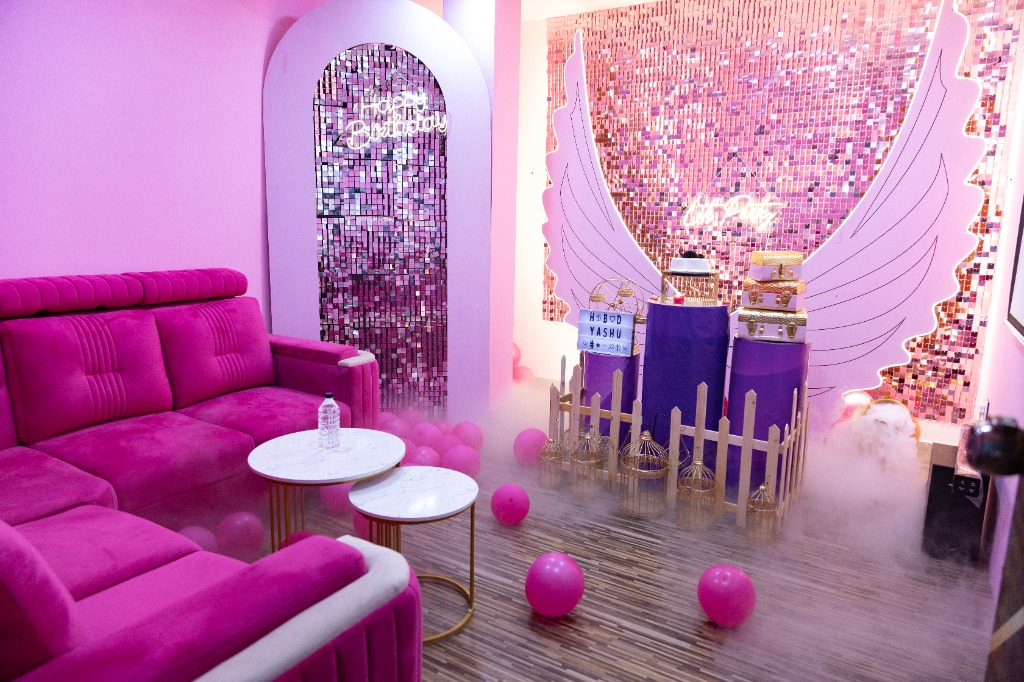
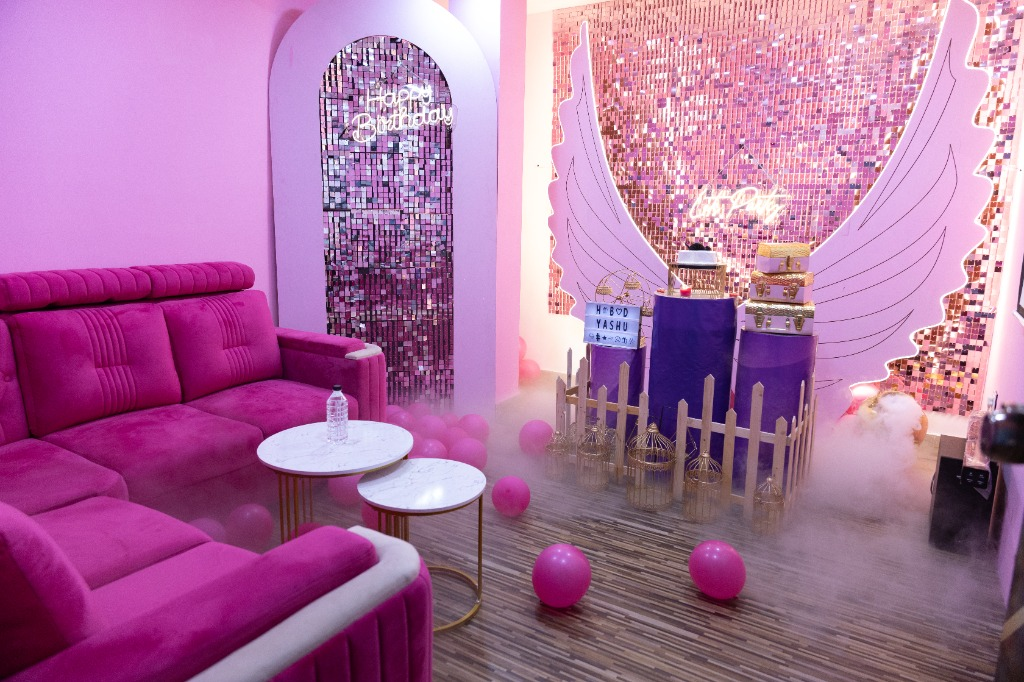
feat: update Pink Theme with authentic photos and set seating capacity to 6 members

diff --git a/src/components/GallerySection.tsx b/src/components/GallerySection.tsx
@@ -72,16 +72,42 @@ const GALLERY_ITEMS: GalleryItem[] = [
   },
   {
     id: 'theme-pink-wings',
-    title: 'Angel Wings & Neon Birthday Celebration',
+    title: 'Angel Wings & Neon Birthday Celebration Suite',
     category: 'birthday',
     categoryLabel: 'Birthday Celebration 🩷',
     theme: 'Pink Theme 🩷',
     themeColor: '#09090b',
-    image: '/gallery/theme-pink.jpg',
-    description: 'Authentic BeeVibe Pink Suite featuring giant glowing illuminated angel wings, pink shimmer sequin wall, "Happy Birthday" & "Let\'s Party" neon lights, hot pink plush recliners, and ground fog effect.',
-    tags: ['Giant Glowing Angel Wings', 'Happy Birthday Neon', 'Pink Shimmer Wall', 'Ground Fog Effect', 'Hot Pink Seating'],
-    highlights: ['2 Hours Private VIP Session', 'Private Cake Cutting Stage', 'Air Conditioned Suite'],
-    bookingLink: '/book?theme=pink'
+    image: '/gallery/theme-pink-wings.jpg',
+    description: 'Authentic BeeVibe Pink Suite featuring giant glowing illuminated angel wings, pink shimmer sequin wall, "Happy Birthday" & "Let\'s Party" neon signs, hot pink plush velvet seating for up to 6 guests, and ground dry-ice fog effect.',
+    tags: ['Giant Glowing Angel Wings', 'Happy Birthday Neon', 'Seats Up to 6', 'Ground Fog Effect', 'Hot Pink Seating'],
+    highlights: ['Seats Up to 6 Guests', 'Private Cake Cutting Stage', '180" 4K Laser Cinema'],
+    bookingLink: '/themes'
+  },
+  {
+    id: 'theme-pink-arch-stage',
+    title: 'Pink Sequin Arch & Happy Birthday Neon Stage',
+    category: 'decor',
+    categoryLabel: 'Birthday Stage Decor 🩷',
+    theme: 'Pink Birthday Arch',
+    themeColor: '#09090b',
+    image: '/gallery/theme-pink-arch.jpg',
+    description: 'Glamorous pink shimmer sequin archway with glowing "Happy Birthday" neon sign and hot pink plush lounge seating for up to 6 guests.',
+    tags: ['Pink Shimmer Sequin Arch', 'Happy Birthday Neon', 'Seats Up to 6', 'Hot Pink Velvet Couch'],
+    highlights: ['Seats Up to 6 Guests', 'Neon Photo Stage', 'Air Conditioned Privacy'],
+    bookingLink: '/themes'
+  },
+  {
+    id: 'theme-pink-cinema-screen',
+    title: '180" 4K Cinema Screen in Pink Celebration Suite',
+    category: 'cinema',
+    categoryLabel: 'Private Cinema Experience 🎬',
+    theme: 'Pink Cinema Suite 🍿',
+    themeColor: '#09090b',
+    image: '/gallery/theme-pink-screen.jpg',
+    description: 'Massive 180" 4K laser projection cinema screen with Dolby surround sound in the Angel Wings celebration suite. Seats up to 6 guests with total privacy.',
+    tags: ['180" Laser Cinema Screen', 'Dolby Surround Sound', 'Seats Up to 6', 'Angel Wings Setup'],
+    highlights: ['Seats Up to 6 Guests', '180" Laser Projection', 'Netflix, Prime & Hotstar'],
+    bookingLink: '/themes'
   },
   {
     id: 'theme-red-heart',

diff --git a/src/app/page.tsx b/src/app/page.tsx
@@ -132,14 +132,15 @@ export default function Home() {
 
   // Gallery Data
   const galleryItems = [
-    { id: 1, category: 'birthday', title: 'Angel Wings & Birthday Stage', image: '/gallery/theme-pink.jpg' },
-    { id: 2, category: 'romantic', title: 'Red Velvet Heart Romance Suite', image: '/gallery/theme-red.jpg' },
-    { id: 3, category: 'vip', title: 'Royal Butterfly Grandeur VIP', image: '/gallery/theme-purple.jpg' },
-    { id: 4, category: 'vip', title: 'Royal Butterfly Illuminated Stage & Arch', image: '/gallery/theme-purple-stage.jpg' },
-    { id: 5, category: 'vip', title: 'VIP Velvet Sectional Lounge (Seats 10)', image: '/gallery/theme-purple-couch.jpg' },
-    { id: 6, category: 'vip', title: '180" 4K Laser Cinema & Dolby Atmos 7.1', image: '/gallery/theme-purple-movie.jpg' },
-    { id: 7, category: 'gaming', title: 'PS5 4K Gaming Arena with DualSense', image: '/gallery/ps5-gaming.jpg' },
-    { id: 8, category: 'romantic', title: 'Candlelight & Floral Heart Setup', image: '/gallery/romantic-date.jpg' },
+    { id: 1, category: 'birthday', title: 'Angel Wings & Birthday Stage (Seats 6)', image: '/gallery/theme-pink.jpg' },
+    { id: 2, category: 'birthday', title: 'Giant Glowing Angel Wings & Cake Stage', image: '/gallery/theme-pink-wings.jpg' },
+    { id: 3, category: 'romantic', title: 'Red Velvet Heart Romance Suite', image: '/gallery/theme-red.jpg' },
+    { id: 4, category: 'vip', title: 'Royal Butterfly Grandeur VIP (Seats 10)', image: '/gallery/theme-purple.jpg' },
+    { id: 5, category: 'vip', title: 'Royal Butterfly Illuminated Stage & Arch', image: '/gallery/theme-purple-stage.jpg' },
+    { id: 6, category: 'vip', title: 'VIP Velvet Sectional Lounge (Seats 10)', image: '/gallery/theme-purple-couch.jpg' },
+    { id: 7, category: 'cinema', title: '180" 4K Laser Cinema in Pink Suite', image: '/gallery/theme-pink-screen.jpg' },
+    { id: 8, category: 'cinema', title: '180" 4K Laser Cinema in Purple Suite', image: '/gallery/theme-purple-movie.jpg' },
+    { id: 9, category: 'gaming', title: 'PS5 4K Gaming Arena with DualSense', image: '/gallery/ps5-gaming.jpg' },
   ];
 
   const filteredGallery = galleryItems.filter((item) => {

diff --git a/src/components/booking/BookingFlowModal.tsx b/src/components/booking/BookingFlowModal.tsx
@@ -104,7 +104,10 @@ export default function BookingFlowModal({
   const [selectedRoomId, setSelectedRoomId] = useState<string>(initialRoomId || 'angel-wings');
   const [selectedDate, setSelectedDate] = useState<string>(initialDate || todayStr);
   const [selectedSlot, setSelectedSlot] = useState<string>('');
-  const [guestCount, setGuestCount] = useState<number>(initialGuests);
+  const [guestCount, setGuestCount] = useState<number>(() => {
+    const room = ROOMS.find((r) => r.id === (initialRoomId || 'angel-wings')) || ROOMS[0];
+    return Math.min(initialGuests, room.maxGuests);
+  });
   const [selectedAddOns, setSelectedAddOns] = useState<string[]>([]);
   const [cakeFlavor, setCakeFlavor] = useState<string>('Chocolate Truffle');
   const [ledNameText, setLedNameText] = useState<string>('');
@@ -136,8 +139,11 @@ export default function BookingFlowModal({
     if (initialRoomId) setSelectedRoomId(initialRoomId);
     if (initialOccasion) setSelectedOccasion(initialOccasion);
     if (initialDate) setSelectedDate(initialDate);
-    if (initialGuests) setGuestCount(initialGuests);
-  }, [initialRoomId, initialOccasion, initialDate, initialGuests]);
+    if (initialGuests) {
+      const room = ROOMS.find((r) => r.id === (initialRoomId || selectedRoomId)) || ROOMS[0];
+      setGuestCount(Math.min(initialGuests, room.maxGuests));
+    }
+  }, [initialRoomId, initialOccasion, initialDate, initialGuests, selectedRoomId]);
 
   // Find active room object
   const activeRoom = useMemo(() => {

diff --git a/src/types/booking.ts b/src/types/booking.ts
@@ -110,12 +110,17 @@ export const ROOMS: RoomExperience[] = [
     price: 1299,
     duration: '2 Hours',
     durationHours: 2,
-    capacity: 'Up to 8 Guests',
-    maxGuests: 8,
+    capacity: 'Up to 6 Guests',
+    maxGuests: 6,
     includedGuests: 2,
     extraGuestPrice: 100,
     image: '/gallery/theme-pink.jpg',
-    galleryImages: ['/gallery/theme-pink.jpg', '/gallery/birthday-celebration.jpg', '/gallery/fog-decor.jpg'],
+    galleryImages: [
+      '/gallery/theme-pink.jpg',
+      '/gallery/theme-pink-wings.jpg',
+      '/gallery/theme-pink-screen.jpg',
+      '/gallery/theme-pink-arch.jpg',
+    ],
     description: 'Vibrant celebration suite featuring glowing illuminated angel wings, "Happy Birthday" & "Let\'s Party" neon signs, pink shimmer sequin wall, and cake pedestal stage.',
     features: [
       'Giant Glowing Illuminated Angel Wings',

diff --git a/src/lib/experiences.ts b/src/lib/experiences.ts
@@ -67,7 +67,7 @@ export const EXPERIENCES: ExperiencePackage[] = [
     details: [
       'Giant Glowing Illuminated Angel Wings & Birthday Stage Setup',
       'Pink Shimmer Sequin Arch with "Happy Birthday" & "Let\'s Party" Neon Signs',
-      'Hot Pink Plush Velvet Seating, White Marble Tables & Picket Fence',
+      'Hot Pink Plush Velvet Seating (Capacity: Up to 6 Members), White Marble Tables & Picket Fence',
       'Cake Cutting Cylindrical Pedestals, Golden Birdcages & Floor Fog',
       '180" 4K Laser Screen & Private Air Conditioned (AC) Suite',
     ],
